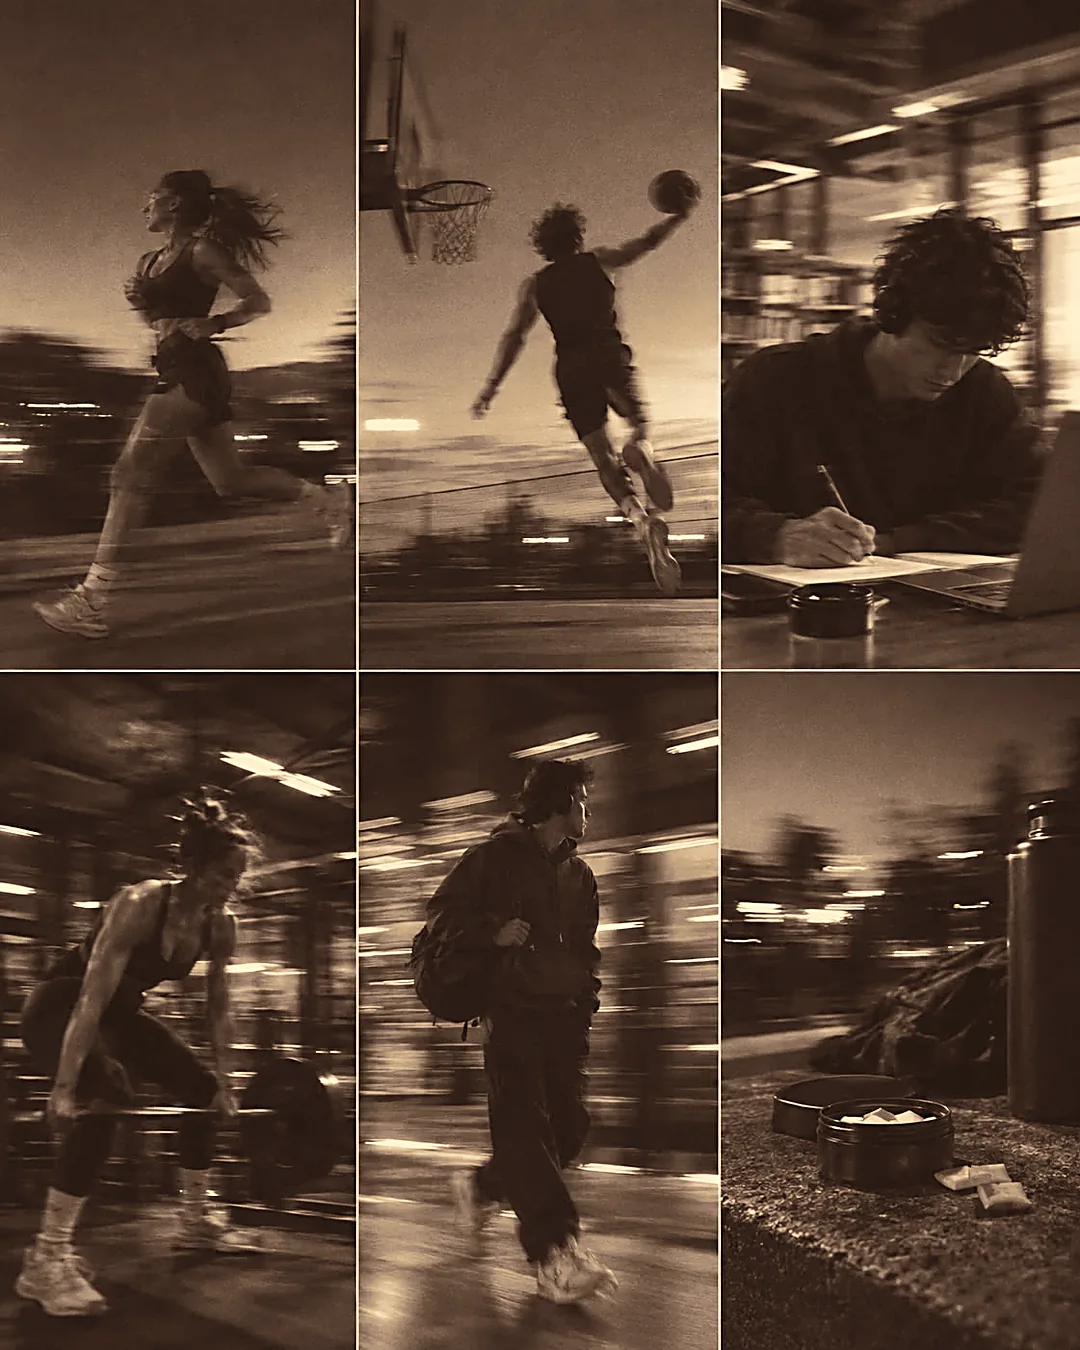
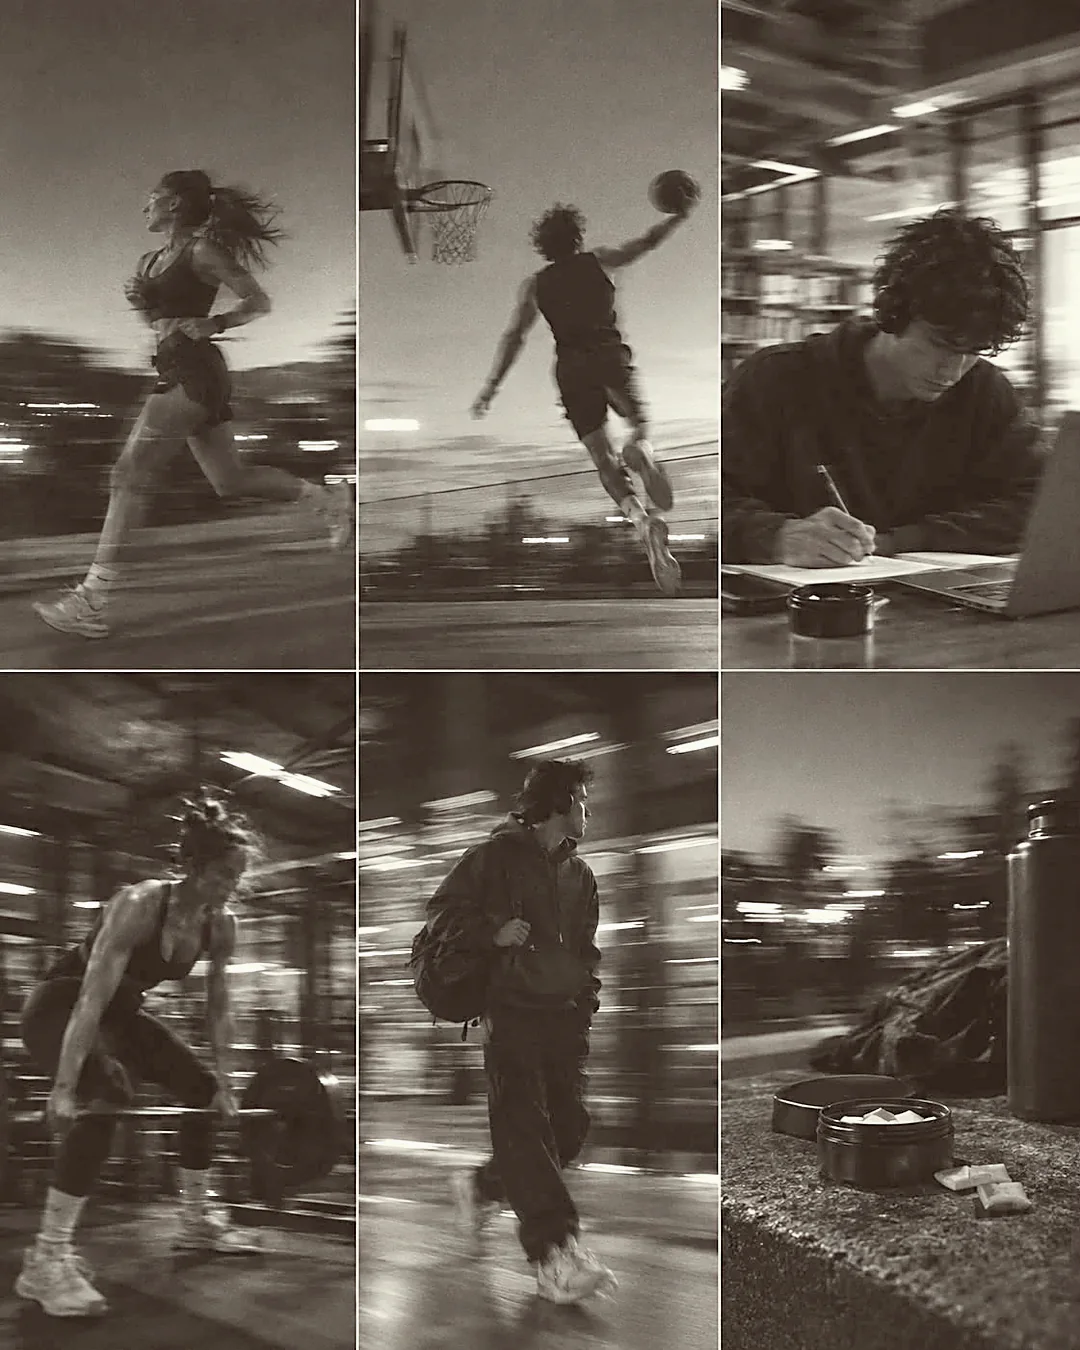
Imágenes de producto reales de la lata Energy
- Las latas se recortan de su fondo inundando desde los bordes en vez de
  por umbral: así el fondo gris se va entero y los blancos del propio
  envase se quedan. Dos tomas: la de frente con la pila y la de tres
  cuartos.
- Bodegón de producto al estilo de la referencia, montado a mano: la toma
  flotando sobre un estudio cálido en nuestra paleta, con degradado
  vertical, viñeta y sombra elíptica difusa debajo. Una sola lata: con una
  segunda arriba parecía que había una montada sobre la pila.
- La de tres cuartos pasa a ser la que flota en el banner. Se acabó la
  contradicción de enseñar una lata CAFFEINE-FREE mientras el rótulo dice
  50 mg de cafeína.
- La imagen que se ve al compartir el enlace deja de ser el icono cuadrado
  y pasa a ser el bodegón apaisado.
- Fuera la llama que quedaba suelta junto a la foto del bloque de nosotros.

FOTOS DE USO. El grado cambia de planteamiento. Antes se pasaban a gris y
se teñían de sepia: la serie quedaba unida pero la foto perdía cuerpo.
Ahora se trabaja sobre el color original y solo se le da temperatura, con
un balance de blancos por canal hacia el ámbar. La imagen se reconoce y el
conjunto sigue casando con el clip del banner. La luminancia media sube de
74 a 95 y las cuatro siguen igualadas entre sí.

Claude-Session: https://claude.ai/code/session_01KjcFSbWYiSCCsxuhcY9QgS

diff --git a/index.html b/index.html
@@ -12,7 +12,7 @@
 <meta property="og:site_name" content="The Pouch Project">
 <meta property="og:title" content="The Pouch Project — Rinde sin límites">
 <meta property="og:description" content="Pouches de rendimiento en Ecuador. Foco limpio, sin azúcar y sin tabaco. Pídelo por WhatsApp.">
-<meta property="og:image" content="assets/img/icon-512.png">
+<meta property="og:image" content="assets/img/producto-nze-energy-ancho.webp">
 <meta property="og:locale" content="es_EC">
 <meta name="twitter:card" content="summary_large_image">
 
@@ -146,11 +146,8 @@
 <section class="section" id="nosotros">
   <div class="wrap about">
     <figure class="about__fig" data-anim="img">
-      <img src="assets/img/producto-nze-peppermint.webp" alt="Lata de NZE Peppermint Energy sobre hojas de menta"
-           width="1100" height="1100" loading="lazy">
-      <span class="about__doodle" aria-hidden="true">
-        <svg viewBox="0 0 100 100"><path d="M50 6c10 18 2 26 10 34 5 5 12 3 14-4 8 12 12 22 12 32 0 20-16 32-36 32S14 88 14 68c0-16 10-28 20-38 8-8 14-14 16-24Z"/></svg>
-      </span>
+      <img src="assets/img/producto-nze-energy.webp" alt="Latas de NZE Peppermint Energy"
+           width="1400" height="1400" loading="lazy">
     </figure>
     <div class="about__body" data-anim="head">
       <h2 class="h2">Un pouch, <em class="tag tag--cobalto tag--sm">cero excusas</em></h2>

diff --git a/assets/js/config.js b/assets/js/config.js
@@ -24,7 +24,7 @@ window.TPP = {
     linea: 'Energy · Nootropic Pouches',
     sabor: 'Peppermint',
     unidades: 15,
-    foto: 'assets/img/producto-nze-peppermint.webp',
+    foto: 'assets/img/producto-nze-energy.webp',
     resumen:
       'Pouch nootrópico de menta fría con 50 mg de cafeína por unidad. ' +
       'Energía y foco en el mismo formato: cero azúcar, cero tabaco y sin ' +
@@ -48,7 +48,7 @@ window.TPP = {
     { id: 'focus',   estado: 'soon', titulo: 'Línea Focus',    sabor: 'Sin cafeína',
       foto: 'assets/img/proximo-focus.webp' },
     { id: 'energy',  estado: 'live', titulo: 'NZE Peppermint', sabor: 'Energy · 50 mg cafeína',
-      foto: 'assets/img/producto-nze-peppermint.webp' },
+      foto: 'assets/img/producto-nze-energy.webp' },
     { id: 'electro', estado: 'soon', titulo: 'Electrolitos',   sabor: 'Hidratación',
       foto: 'assets/img/proximo-electrolitos.webp' },
   ],

diff --git a/assets/css/styles.css b/assets/css/styles.css
@@ -493,12 +493,6 @@ main section[id]{scroll-margin-top:calc(var(--nav-h) + 16px)}
 @media (min-width:900px){.about{grid-template-columns:minmax(0,.9fr) minmax(0,1.1fr)}}
 .about__fig{position:relative; border-radius:var(--r-lg); overflow:visible}
 .about__fig img{width:100%; height:auto; border-radius:var(--r-lg); border:3px solid var(--negro)}
-.about__doodle{
-  position:absolute; top:-26px; left:-18px; width:clamp(58px,7vw,92px); z-index:2;
-  transform:rotate(-16deg);
-}
-.about__doodle svg{width:100%; height:auto; overflow:visible}
-.about__doodle path{fill:var(--arena); stroke:var(--negro); stroke-width:7; paint-order:stroke fill; stroke-linejoin:round}
 .about__body{display:grid; gap:16px; justify-items:start}
 .about__body p{color:var(--muted); max-width:54ch}
 .marks{display:grid; gap:9px; margin-top:2px}

diff --git a/herramientas/grado.py b/herramientas/grado.py
@@ -1,92 +1,87 @@
+"""Grado de las fotos de "Cuándo usarlos".
+
+   Antes se pasaban a gris y se teñían de sepia: se veía la serie unida pero
+   la foto perdía cuerpo. Ahora se trabaja sobre el color original y solo se
+   le da temperatura: la imagen se reconoce, y el conjunto sigue casando con
+   el clip cálido del banner."""
 from PIL import Image, ImageEnhance, ImageFilter
-import random
+import math, os, random
 
-# Anclas tomadas del propio póster del vídeo del banner:
-# sombras #180B08, medios #664933, luces #8F705B. Se extiende el tramo alto
-# hacia la arena para que las fotos no queden planas.
-ANCLAS = [(0.00,(22,13,10)), (0.14,(54,34,25)), (0.38,(104,76,57)),
-          (0.60,(158,126,101)), (0.80,(202,166,122)), (1.00,(244,224,186))]
-
-def lut():
-    tabla=[[],[],[]]
-    for i in range(256):
-        t=i/255
-        for k in range(len(ANCLAS)-1):
-            a,ca=ANCLAS[k]; b,cb=ANCLAS[k+1]
-            if a<=t<=b:
-                f=(t-a)/(b-a) if b>a else 0
-                for c in range(3): tabla[c].append(int(ca[c]+(cb[c]-ca[c])*f))
-                break
-        else:
-            for c in range(3): tabla[c].append(ANCLAS[-1][1][c])
-    return tabla[0]+tabla[1]+tabla[2]
-LUT = lut()
+DIANA = 96          # luminancia media a la que se lleva cada foto
+CALIDO = 0.55       # cuánto se empuja hacia el ámbar (0 = sin tocar)
 
 def curva(v):
-    """Negros levantados y una S algo más marcada que antes: el aire lavado
-       del clip se mantiene, pero el motivo se separa del fondo."""
-    t=v/255
-    t=0.045+t*0.955                      # levanta el negro, menos que antes
-    t=t*t*(3-2*t)*0.72 + t*0.28          # contraste más firme
-    return max(0,min(255,int(t*255)))
-CURVA=[curva(i) for i in range(256)]
-DIANA=86      # luminancia media antes de teñir
-DIANA_FIN=74  # y la del resultado final, ya con el tinte y el grano
+    """Negros apenas levantados y una S suave: aire de película sin lavar."""
+    t = v / 255
+    t = 0.028 + t * 0.972
+    t = t * t * (3 - 2 * t) * 0.34 + t * 0.66
+    return max(0, min(255, int(t * 255)))
+CURVA = [curva(i) for i in range(256)]
+
+def temperatura(k):
+    """Tabla por canal: sube el rojo, deja el verde casi igual y baja el azul.
+       Es un balance de blancos hacia el ámbar, no un tinte plano encima."""
+    r = [min(255, int(i + (255 - i) * 0.165 * k)) for i in range(256)]
+    g = [min(255, int(i + (255 - i) * 0.055 * k)) for i in range(256)]
+    b = [max(0,   int(i - i * 0.115 * k)) for i in range(256)]
+    return r + g + b
 
 def recorta(im, foco=0.5, rel=16/9):
-    w,h=im.size
-    if w/h > rel:
-        nh=h; nw=int(h*rel); x=int((w-nw)*0.5); y=0
+    w, h = im.size
+    if w / h > rel:
+        nh = h; nw = int(h * rel); x = int((w - nw) * 0.5); y = 0
     else:
-        nw=w; nh=int(w/rel); y=int((h-nh)*foco); x=0
-        y=max(0,min(h-nh,y))
-    return im.crop((x,y,x+nw,y+nh))
+        nw = w; nh = int(w / rel); x = 0
+        y = max(0, min(h - nh, int((h - nh) * foco)))
+    return im.crop((x, y, x + nw, y + nh))
 
-def grada(src, dst, foco=0.5, color=0.14, grano=7, ancho=1920, rel=16/9):
-    im=Image.open(src).convert('RGB')
-    im=recorta(im, foco, rel)
-    im=im.resize((ancho,int(ancho/rel)), Image.LANCZOS)
-    gris=im.convert('L')
-    # Igualar exposición: todas acaban con la misma luminancia media, que es
-    # lo que hace que la serie se lea como una sola sesión de fotos.
-    media=sum(gris.histogram()[i]*i for i in range(256))/(gris.size[0]*gris.size[1])
-    if media > 2:
-        import math
-        g=math.log(DIANA/255.0)/math.log(media/255.0)
-        g=max(0.55, min(1.9, g))
-        gris=gris.point([int(255*((i/255)**g)) for i in range(256)])
-    gris=gris.point(CURVA)
-    tenido=Image.merge('RGB',(gris,gris,gris)).point(LUT)
-    # una pizca del color original, para que no parezca un filtro plano
-    salida=Image.blend(tenido, im, color)
-    salida=ImageEnhance.Contrast(salida).enhance(1.06)
-    # Realce local: devuelve el filo que se pierde al reducir y al teñir,
-    # que es lo que hace que la foto se lea de lejos y en una pantalla chica.
-    salida=salida.filter(ImageFilter.UnsharpMask(radius=2.2, percent=68, threshold=3))
-    # grano
+def media(im):
+    g = im.convert('L')
+    return sum(g.histogram()[i] * i for i in range(256)) / (g.size[0] * g.size[1])
+
+def grada(src, dst, foco=0.5, ancho=1920, rel=16/9, grano=6):
+    im = Image.open(src).convert('RGB')
+    im = recorta(im, foco, rel)
+    im = im.resize((ancho, int(ancho / rel)), Image.LANCZOS)
+
+    # 1. exposición: todas parten de la misma luminancia media
+    m = media(im)
+    if m > 2:
+        gm = math.log(DIANA / 255.0) / math.log(m / 255.0)
+        im = im.point([int(255 * ((i / 255) ** max(0.5, min(1.9, gm)))) for i in range(256)] * 3)
+
+    # 2. curva de contraste y temperatura, sobre el color de verdad
+    im = im.point(CURVA * 3)
+    im = im.point(temperatura(CALIDO))
+
+    # 3. una pizca menos de saturación, para que el ámbar no chille
+    im = ImageEnhance.Color(im).enhance(0.90)
+    im = ImageEnhance.Contrast(im).enhance(1.05)
+    im = im.filter(ImageFilter.UnsharpMask(radius=2.0, percent=62, threshold=3))
+
+    # 4. grano fino
     random.seed(11)
-    ruido=Image.effect_noise(salida.size,grano).convert('L')
-    salida=Image.blend(salida, Image.merge('RGB',(ruido,ruido,ruido)), 0.045)
-    # Ajuste final: se mide el resultado ya teñido y se iguala a la diana,
-    # porque el grano y la mezcla de color vuelven a mover la media.
-    for _ in range(3):
-        g2=salida.convert('L')
-        m2=sum(g2.histogram()[i]*i for i in range(256))/(g2.size[0]*g2.size[1])
-        if abs(m2-DIANA_FIN) < 1.2: break
-        salida=ImageEnhance.Brightness(salida).enhance(max(0.7, min(1.4, DIANA_FIN/m2)))
-    salida.save(dst,'WEBP',quality=82,method=6)
-    return salida.size
+    ruido = Image.effect_noise(im.size, grano).convert('L')
+    im = Image.blend(im, Image.merge('RGB', (ruido, ruido, ruido)), 0.032)
 
-BASE='/tmp/claude-0/-home-user-THEPOUCHPROYECT/efaf1adb-b50e-5c64-9320-e3084cc1a078/images/'
-OUT='/home/user/THEPOUCHPROYECT/assets/img/'
-import os
-# En el móvil el módulo es alto y estrecho: con el recorte 16:9 el motivo
-# se va por los lados. Se genera un segundo juego en 4:5, más cerrado.
-for src, dst, foco, focoM in [('31.webp','uso-entrenamiento',0.46,0.44),
-                              ('32.webp','uso-trabajo',      0.46,0.46),
-                              ('33.webp','uso-estudio',      0.44,0.42),
-                              ('34.webp','uso-donde-sea',    0.50,0.50)]:
-    a=grada(BASE+src, OUT+dst+'.webp', foco, ancho=1920, rel=16/9)
-    b=grada(BASE+src, OUT+dst+'-movil.webp', focoM, ancho=1080, rel=4/5)
-    print(dst.ljust(20), a, os.path.getsize(OUT+dst+'.webp')//1024, 'KB  |  movil',
-          b, os.path.getsize(OUT+dst+'-movil.webp')//1024, 'KB')
+    # 5. ajuste final de exposición, que el grano y la curva la mueven
+    for _ in range(3):
+        m2 = media(im)
+        if abs(m2 - DIANA) < 1.2: break
+        im = ImageEnhance.Brightness(im).enhance(max(0.7, min(1.4, DIANA / m2)))
+
+    im.save(dst, 'WEBP', quality=84, method=6)
+    return im.size
+
+BASE = '/tmp/claude-0/-home-user-THEPOUCHPROYECT/efaf1adb-b50e-5c64-9320-e3084cc1a078/images/'
+OUT  = '/home/user/THEPOUCHPROYECT/assets/img/'
+
+if __name__ == '__main__':
+    for src, dst, foco, focoM in [('31.webp', 'uso-entrenamiento', 0.46, 0.44),
+                                  ('32.webp', 'uso-trabajo',       0.46, 0.46),
+                                  ('33.webp', 'uso-estudio',       0.44, 0.42),
+                                  ('34.webp', 'uso-donde-sea',     0.50, 0.50)]:
+        a = grada(BASE + src, OUT + dst + '.webp', foco, 1920, 16/9)
+        b = grada(BASE + src, OUT + dst + '-movil.webp', focoM, 1080, 4/5)
+        print(dst.ljust(20), a, os.path.getsize(OUT+dst+'.webp')//1024, 'KB | movil',
+              b, os.path.getsize(OUT+dst+'-movil.webp')//1024, 'KB')

diff --git a/herramientas/bodegon-producto.py b/herramientas/bodegon-producto.py
@@ -1,0 +1,57 @@
+"""Bodegón de producto al estilo de la referencia: latas flotando sobre un
+   fondo de estudio en nuestra paleta, con sombra blanda bajo cada una."""
+from PIL import Image, ImageDraw, ImageFilter
+
+frente = Image.open('corte-frente.png')          # lata de frente con la pila
+tc     = Image.open('corte-tres-cuartos.png')    # la misma en tres cuartos
+
+def escala(im, alto):
+    r = alto / im.height
+    return im.resize((max(1, int(im.width * r)), alto), Image.LANCZOS)
+
+def fondo(W, H):
+    """Estudio cálido: degradado vertical más viñeta, en arena."""
+    claro  = Image.new('RGB', (W, H), (249, 238, 214))
+    medio  = Image.new('RGB', (W, H), (226, 200, 154))
+    rampa  = Image.new('L', (1, H))
+    for y in range(H):
+        t = y / H
+        rampa.putpixel((0, y), int(255 * (0.04 + 0.70 * t * t)))
+    base = Image.composite(medio, claro, rampa.resize((W, H)))
+    vig = Image.new('L', (W, H), 0)
+    ImageDraw.Draw(vig).ellipse((-W*0.22, -H*0.30, W*1.22, H*1.30), fill=255)
+    vig = vig.filter(ImageFilter.GaussianBlur(170))
+    return Image.composite(base, Image.new('RGB', (W, H), (206, 176, 126)), vig)
+
+def compone(W, H, plan, dst):
+    base = fondo(W, H).convert('RGBA')
+    puestas = []
+    for im, alto, giro, cx, base_y, (sw, sh, sb, sf) in plan:
+        p = escala(im, alto).rotate(giro, expand=True, resample=Image.BICUBIC)
+        x = cx - p.width // 2
+        y = base_y - p.height
+        # sombra pegada al borde inferior de la pieza, un poco por debajo
+        s = Image.new('L', (W, H), 0)
+        sy = base_y + int(alto * 0.05)
+        ImageDraw.Draw(s).ellipse((cx - sw//2, sy - sh//2, cx + sw//2, sy + sh//2), fill=sf)
+        s = s.filter(ImageFilter.GaussianBlur(sb))
+        tinta = Image.new('RGBA', (W, H), (74, 41, 28, 255))
+        tinta.putalpha(s)
+        base.alpha_composite(tinta)
+        puestas.append((p, x, y))
+    for p, x, y in puestas:
+        base.alpha_composite(p, (x, y))
+    base.convert('RGB').save(dst, quality=92)
+    return base.size
+
+# Una sola toma, centrada. Con una segunda lata arriba parecía que había
+# una montada sobre la pila, y el bodegón se leía mal.
+compone(1400, 1400, [
+    (frente, 880, 2, 700, 1170, (700, 130, 58, 150)),
+], '/home/user/THEPOUCHPROYECT/assets/img/producto-nze-energy.webp')
+
+# Apaisado, para la imagen que se ve al compartir el enlace
+compone(1600, 900, [
+    (frente, 640, 2, 800, 790, (540, 104, 48, 148)),
+], '/home/user/THEPOUCHPROYECT/assets/img/producto-nze-energy-ancho.webp')
+print('bodegones listos')

diff --git a/herramientas/recortar-producto.py b/herramientas/recortar-producto.py
@@ -1,0 +1,53 @@
+"""Recorta las latas de su fondo. Vienen sobre gris muy claro casi plano, así
+   que el fondo se encuentra inundando desde los bordes: así no se comen los
+   blancos de dentro de la lata, que es lo que pasaría con un simple umbral."""
+from PIL import Image, ImageFilter
+from collections import deque
+import sys
+
+IMG = '/tmp/claude-0/-home-user-THEPOUCHPROYECT/efaf1adb-b50e-5c64-9320-e3084cc1a078/images/'
+
+def recorta(nombre, caja=None, tol=17, salida=None):
+    im = Image.open(IMG + nombre).convert('RGB')
+    if caja: im = im.crop(caja)
+    w, h = im.size
+    px = im.load()
+
+    # color del fondo: la media de las cuatro esquinas
+    esq = [px[2,2], px[w-3,2], px[2,h-3], px[w-3,h-3]]
+    fr = sum(c[0] for c in esq)//4; fg = sum(c[1] for c in esq)//4; fb = sum(c[2] for c in esq)//4
+
+    fondo = bytearray(w*h)
+    cola = deque()
+    for x in range(w):
+        for y in (0, h-1):
+            cola.append((x,y))
+    for y in range(h):
+        for x in (0, w-1):
+            cola.append((x,y))
+    while cola:
+        x, y = cola.popleft()
+        i = y*w + x
+        if fondo[i]: continue
+        r, g, b = px[x, y]
+        if abs(r-fr) > tol or abs(g-fg) > tol or abs(b-fb) > tol: continue
+        fondo[i] = 1
+        if x > 0:   cola.append((x-1, y))
+        if x < w-1: cola.append((x+1, y))
+        if y > 0:   cola.append((x, y-1))
+        if y < h-1: cola.append((x, y+1))
+
+    alfa = Image.frombytes('L', (w, h), bytes(255 - v*255 for v in fondo))
+    alfa = alfa.filter(ImageFilter.MinFilter(3))       # muerde 1 px de halo
+    alfa = alfa.filter(ImageFilter.GaussianBlur(0.8))  # y suaviza el filo
+    out = im.convert('RGBA'); out.putalpha(alfa)
+    out = out.crop(out.getbbox())
+    if salida: out.save(salida)
+    return out
+
+if __name__ == '__main__':
+    # 39: la lata de frente con las cuatro apiladas detrás
+    a = recorta('39.webp', salida='corte-frente.png')
+    # 37: la misma lata en tres cuartos, la mitad izquierda del cuadro
+    b = recorta('37.webp', caja=(150, 430, 720, 1120), salida='corte-tres-cuartos.png')
+    print('frente', a.size, '| tres cuartos', b.size)

diff --git a/README.md b/README.md
@@ -122,12 +122,18 @@ dos de solo contorno. Un tercio de las piezas pasa además por un tratamiento
 de estampa gastada. Lo reparte en rejilla desordenada y lo pega nueve veces
 para que el mosaico empalme por los cuatro bordes.
 
-**El grado de color** está en `herramientas/grado.py`. Toma las fotos
-originales, las recorta a 16:9, las pasa a luminancia, iguala la exposición de
-todas a la misma media y las tiñe con una curva sacada del propio póster del
-vídeo del banner (sombras `#180B08`, medios `#664933`, luces `#8F705B`,
-extendidas hacia la arena). Deja un 12 % del color original y un punto de
-grano. Para añadir una foto nueva a la serie, se pasa por ahí y encaja sola.
+**Las imágenes de producto** salen de `herramientas/recortar-producto.py`, que
+separa la lata de su fondo inundando desde los bordes (no por umbral, que se
+comería los blancos del propio envase), y de `herramientas/bodegon-producto.py`,
+que la monta flotando sobre un estudio cálido en nuestra paleta con su sombra
+elíptica difusa.
+
+**El grado de color** está en `herramientas/grado.py`. Trabaja sobre el color
+original y solo le da temperatura: iguala la exposición de las cuatro a la misma
+luminancia media, aplica una curva de contraste suave y un balance de blancos
+hacia el ámbar por canal (sube el rojo, deja el verde y baja el azul), baja un
+punto la saturación y añade realce y grano. Para añadir una foto a la serie, se
+pasa por ahí y encaja sola.
 
 Las cuatro fotos actuales las aportó el cliente.
 
@@ -200,9 +206,6 @@ Revisado el 29/09/2026.
       Peppermint Energy**, 50 mg de cafeína más Alpha GPC, L-Teanina y L-Tirosina a
       40 mg cada una. Toda la redacción se reescribió para esa lata y la línea Focus,
       sin cafeína, pasó a "próximamente".
-- [ ] **Fotos de la lata Energy.** Las imágenes de la web todavía muestran la lata
-      FOCUS · CAFFEINE-FREE, que ya no es la que se vende. Hay que reemplazar
-      `producto-nze-peppermint.webp` y `lata-recorte.webp` por fotos del envase Energy.
 - [ ] **Tarifas de envío reales.** Las de `config.js` salieron de la maqueta, no de una
       cotización: Guayaquil $2.50, Quito y Cuenca $3.50, resto $4.50, gratis desde $30.
 - [ ] **Confirmar precios** (1 lata $12, 2 latas $20), la hora de cierre de despacho
